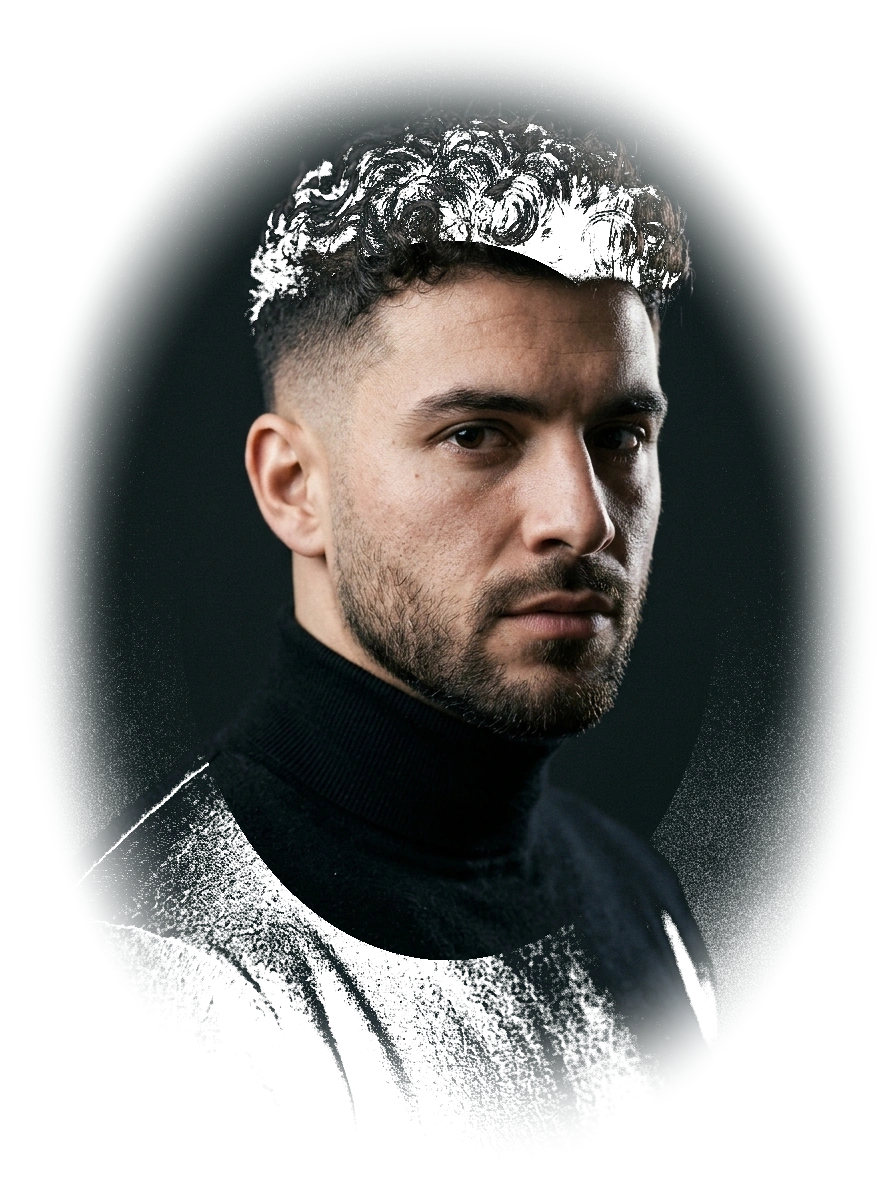
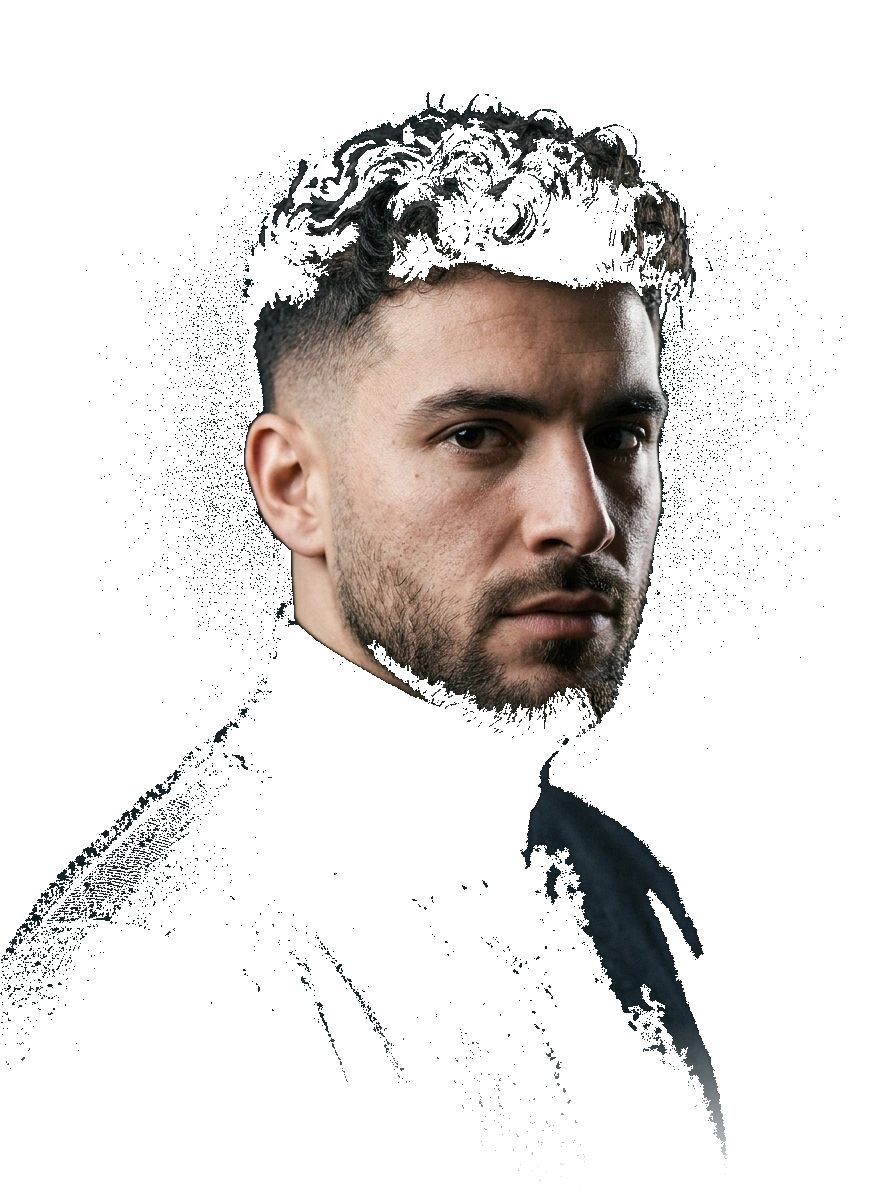
fix: remove dark round background, remove isolated lone images, increase mobile cutout size to prominent scale, and upgrade spotlights to ultra-HD editorial layouts

diff --git a/src/data/serviceSpotlights.ts b/src/data/serviceSpotlights.ts
@@ -11,9 +11,9 @@ export const serviceSpotlights: Record<string, ServiceSpotlightProps> = {
     title: "Textured Executive Crop",
     highlightText: "Point-Cut Volume & Micro-Taper",
     description: "Modern European crop featuring high micro-fade temples and point-cut scissor volume through the crown for low-maintenance, sharp everyday presence.",
-    image: "/images/cutout-executive-crop.webp",
-    imageAlt: "Modern textured executive crop haircut at R.B Makeover",
-    captionTag: "MODERN TEXTURED CROP • BLUNT FRINGE SYMMETRY",
+    image: "/images/cutout-quiff-taper.webp",
+    imageAlt: "Modern textured quiff and skin taper fade at R.B Makeover",
+    captionTag: "MODERN TEXTURED QUIFF • TEMPLE TAPER SYMMETRY",
     captionTitle: "Weightless volume and clean micro-tapers crafted with Japanese shears.",
     features: ["Micro Temple Taper", "Point-Cut Crown Texture", "Matte Clay Finish", "Razor Clean Neckline"],
     imageSide: "left",
@@ -30,7 +30,7 @@ export const serviceSpotlights: Record<string, ServiceSpotlightProps> = {
     title: "The Low-Drop Skin Fade",
     highlightText: "Precision Scissor Texture",
     description: "Zero-gap clipper taper smoothly transitioning into hand-sculpted crown layers. Styled to match your natural growth pattern and facial symmetry.",
-    image: "/images/cutout-skin-fade.webp",
+    image: "/images/cutout-razor-dropfade.webp",
     imageAlt: "Low-drop skin fade with precision scissor texture at R.B Makeover",
     captionTag: "SIGNATURE SKIN FADE • ZERO-GAP RAZOR CONTOURS",
     captionTitle: "Tailored temple tapers and razor-sharp nape lines crafted by master barbers.",
@@ -87,7 +87,7 @@ export const serviceSpotlights: Record<string, ServiceSpotlightProps> = {
     title: "Hair & Beard Coordination",
     highlightText: "Tailored to Your Bone Structure",
     description: "Harmonizing your haircut with your beard shape to complement facial bone structure, temple taper transitions, and personal executive presence.",
-    image: "/images/cutout-hair-beard.webp",
+    image: "/images/cutout-pompadour-sculpt.webp",
     imageAlt: "Executive hair and beard grooming synergy at R.B Makeover",
     captionTag: "THE EXECUTIVE STANDARD • COMPLETE GROOMING SYNERGY",
     captionTitle: "Harmonized hair & beard proportions crafted for confidence and executive poise.",
@@ -125,7 +125,7 @@ export const serviceSpotlights: Record<string, ServiceSpotlightProps> = {
     title: "Invigorating Scalp Massage",
     highlightText: "Menthol Acupressure & Follicle Therapy",
     description: "Stimulating scalp acupressure massage using tea tree and peppermint clarifying botanicals, relieving daily tension while promoting healthy hair follicle circulation.",
-    image: "/images/cutout-scalp-therapy.webp",
+    image: "/images/cutout-curly-taper.webp",
     imageAlt: "Invigorating scalp acupressure massage and steam therapy at R.B Makeover",
     captionTag: "SCALP DETOX WASH • MENTHOL ACUPRESSURE THERAPY",
     captionTitle: "Cleanses styling product residue and promotes strong, healthy roots.",
@@ -144,8 +144,8 @@ export const serviceSpotlights: Record<string, ServiceSpotlightProps> = {
     title: "Classic Scissor Haircut",
     highlightText: "Handcrafted Scissor Discipline",
     description: "For gentlemen and boys who appreciate timeless scissor styling with soft natural tapers and razor-clean necklines. Crafted exclusively with Japanese steel shears.",
-    image: "/images/cutout-classic-cut.webp",
-    imageAlt: "Classic scissor-over-comb haircut at R.B Makeover",
+    image: "/images/cutout-combover-razor.webp",
+    imageAlt: "Classic comb-over scissor cut and fade at R.B Makeover",
     captionTag: "HANDCRAFTED SCISSOR CRAFT • TIMELESS ELEGANCE",
     captionTitle: "Natural parting lines and scissor-shaped volume tailored to your head shape.",
     features: ["Pure Scissor Work", "Gentle Neckline Lineup", "Natural Parting", "Light Styling Tonic"],
@@ -201,7 +201,7 @@ export const serviceSpotlights: Record<string, ServiceSpotlightProps> = {
     title: "Razor Lineup & Temple Edge",
     highlightText: "Zero-Tolerance Contour Geometry",
     description: "Laser-focused edge work using disposable feather blades to carve crisp cheek curves, neckline definition, and geometric temple tapers.",
-    image: "/images/cutout-razor-lineup.webp",
+    image: "/images/cutout-mature-classic.webp",
     imageAlt: "Razor-sharp temple and beard lineup detailing at R.B Makeover",
     captionTag: "FEATHER BLADE LINEUPS • CRISP TEMPLE GEOMETRY",
     captionTitle: "Razor-straight lines and tapered curves sculpted with surgeon-level discipline.",

diff --git a/scripts/verify_spotlights.js b/scripts/verify_spotlights.js
@@ -1,0 +1,70 @@
+const puppeteer = require('puppeteer-core');
+const fs = require('fs');
+const path = require('path');
+
+const EDGE_PATH = 'C:\\Program Files (x86)\\Microsoft\\Edge\\Application\\msedge.exe';
+
+async function verify() {
+  const screenshotsDir = path.join(__dirname, '..', 'screenshots');
+  if (!fs.existsSync(screenshotsDir)) {
+    fs.mkdirSync(screenshotsDir, { recursive: true });
+  }
+
+  const browser = await puppeteer.launch({
+    executablePath: EDGE_PATH,
+    headless: true,
+    args: ['--no-sandbox', '--disable-setuid-sandbox']
+  });
+
+  // 1. Desktop
+  const desktopPage = await browser.newPage();
+  await desktopPage.setViewport({ width: 1440, height: 1000, deviceScaleFactor: 2 });
+  await desktopPage.goto('http://localhost:3000', { waitUntil: 'networkidle0' });
+  await new Promise(r => setTimeout(r, 1500));
+
+  const spotlightEl = await desktopPage.$('#spotlight-executive-crop');
+  if (spotlightEl) {
+    await desktopPage.evaluate(el => el.scrollIntoView({ behavior: 'instant', block: 'center' }), spotlightEl);
+    await new Promise(r => setTimeout(r, 600));
+    await spotlightEl.screenshot({ path: path.join(screenshotsDir, 'v_spotlight1_desktop.png') });
+    console.log('Captured v_spotlight1_desktop.png');
+  }
+
+  const precisionEl = await desktopPage.$('#precision');
+  if (precisionEl) {
+    await desktopPage.evaluate(el => el.scrollIntoView({ behavior: 'instant', block: 'center' }), precisionEl);
+    await new Promise(r => setTimeout(r, 600));
+    await precisionEl.screenshot({ path: path.join(screenshotsDir, 'v_precision_desktop.png') });
+    console.log('Captured v_precision_desktop.png');
+  }
+
+  // 2. Mobile
+  const mobilePage = await browser.newPage();
+  await mobilePage.setViewport({ width: 390, height: 844, deviceScaleFactor: 2, isMobile: true });
+  await mobilePage.goto('http://localhost:3000', { waitUntil: 'networkidle0' });
+  await new Promise(r => setTimeout(r, 1500));
+
+  const mSpotlight = await mobilePage.$('#spotlight-executive-crop');
+  if (mSpotlight) {
+    await mobilePage.evaluate(el => el.scrollIntoView({ behavior: 'instant', block: 'center' }), mSpotlight);
+    await new Promise(r => setTimeout(r, 600));
+    await mSpotlight.screenshot({ path: path.join(screenshotsDir, 'v_spotlight1_mobile.png') });
+    console.log('Captured v_spotlight1_mobile.png');
+  }
+
+  const mPrecision = await mobilePage.$('#precision');
+  if (mPrecision) {
+    await mobilePage.evaluate(el => el.scrollIntoView({ behavior: 'instant', block: 'center' }), mPrecision);
+    await new Promise(r => setTimeout(r, 600));
+    await mPrecision.screenshot({ path: path.join(screenshotsDir, 'v_precision_mobile.png') });
+    console.log('Captured v_precision_mobile.png');
+  }
+
+  await browser.close();
+  console.log('All verification screenshots complete!');
+}
+
+verify().catch(err => {
+  console.error(err);
+  process.exit(1);
+});

diff --git a/src/components/sections/PrecisionSection.tsx b/src/components/sections/PrecisionSection.tsx
@@ -5,7 +5,6 @@ import Image from "next/image";
 import { SectionHeading } from "@/components/ui/SectionHeading";
 import { Button } from "@/components/ui/Button";
 import { AnimatedReveal } from "@/components/ui/AnimatedReveal";
-import { CutoutFeatureBand } from "@/components/ui/CutoutFeatureBand";
 import {
   Scissors,
   Sparkles,
@@ -131,17 +130,13 @@ export function PrecisionSection() {
 
           {/* Center Column: Tall Seamless Cutout Portrait (Zero Cropped Edges, Big on PC) */}
           <AnimatedReveal direction="scale" delay={0.15} amount={0.05} className="lg:col-span-4 order-1 lg:order-2 flex justify-center">
-            <div className="relative w-full max-w-[320px] sm:max-w-[400px] lg:max-w-none mx-auto h-[320px] sm:h-[460px] lg:h-[620px] group flex flex-col justify-end">
+            <div className="relative w-full max-w-[340px] sm:max-w-[420px] lg:max-w-none mx-auto h-[380px] sm:h-[480px] lg:h-[620px] group flex flex-col justify-end">
               <Image
                 src="/images/cutout-precision-taper.webp"
                 alt="Executive gentleman profile with precision fade and groomed beard at R.B Makeover Man's Salon"
                 fill
                 sizes="(max-width: 1024px) 420px, 460px"
                 className="object-contain object-bottom group-hover:scale-105 transition-transform duration-700 ease-out select-none"
-                style={{
-                  WebkitMaskImage: 'radial-gradient(ellipse 80% 80% at 50% 45%, black 45%, transparent 100%)',
-                  maskImage: 'radial-gradient(ellipse 80% 80% at 50% 45%, black 45%, transparent 100%)'
-                }}
               />
 
               {/* Scrim gradient blending into the dark section background */}
@@ -194,15 +189,6 @@ export function PrecisionSection() {
           </AnimatedReveal>
 
         </div>
-
-        {/* Editorial Feature Cutout above Menu Button (matching user screenshot 5 & 11) */}
-        <CutoutFeatureBand
-          image="/images/cutout-razor-dropfade.webp"
-          alt="Precision razor line-up and skin drop fade at R.B Makeover"
-          tag="DROP FADE & LINE-UP"
-          title="Jawline Symmetry"
-          maxHeight="h-[240px] sm:h-[320px] lg:h-[400px]"
-        />
 
         {/* Action Button underneath */}
         <AnimatedReveal direction="up" delay={0.25} amount={0.05} className="mt-8 sm:mt-12 text-center">

diff --git a/src/app/page.tsx b/src/app/page.tsx
@@ -18,7 +18,6 @@ import { LocationSection } from "@/components/sections/LocationSection";
 import { ContactSection } from "@/components/sections/ContactSection";
 import { MarqueeTicker } from "@/components/ui/MarqueeTicker";
 import { ServiceSpotlightBand } from "@/components/ui/ServiceSpotlightBand";
-import { CutoutFeatureBand } from "@/components/ui/CutoutFeatureBand";
 import { AnimatedReveal } from "@/components/ui/AnimatedReveal";
 import { serviceSpotlights } from "@/data/serviceSpotlights";
 
@@ -55,15 +54,6 @@ export default function Home() {
             ]}
           />
         </AnimatedReveal>
-
-        {/* Editorial Feature Cutout between Ticker and Spotlight (matching user screenshot 12) */}
-        <CutoutFeatureBand
-          image="/images/cutout-combover-razor.webp"
-          alt="Executive comb-over fade and razor part line at R.B Makeover"
-          tag="EXECUTIVE COMB-OVER"
-          title="Razor Part Discipline"
-          maxHeight="h-[240px] sm:h-[320px] lg:h-[420px]"
-        />
 
         {/* Service Spotlight 1: Modern Textured European Crop */}
         <ServiceSpotlightBand {...serviceSpotlights.executiveCrop} />

diff --git a/src/components/sections/TeamSection.tsx b/src/components/sections/TeamSection.tsx
@@ -4,7 +4,6 @@ import React, { useState } from "react";
 import { staffBarbers, BarberStaff } from "@/data/team";
 import { SectionHeading } from "@/components/ui/SectionHeading";
 import { AnimatedReveal } from "@/components/ui/AnimatedReveal";
-import { CutoutFeatureBand } from "@/components/ui/CutoutFeatureBand";
 import { WhatsAppIcon } from "@/components/ui/Icons";
 import { buildBarberBookingWhatsAppUrl } from "@/lib/whatsapp";
 import {
@@ -311,15 +310,6 @@ export function TeamSection({
           );
           })}
         </div>
-
-        {/* Editorial Feature Cutout (matching user screenshot 8) */}
-        <CutoutFeatureBand
-          image="/images/cutout-mature-classic.webp"
-          alt="Distinguished mature gentleman with classic scissor cut and beard grooming at R.B Makeover"
-          tag="HERITAGE SCISSOR WORK"
-          title="14+ Years Craftsmanship"
-          maxHeight="h-[240px] sm:h-[320px] lg:h-[400px]"
-        />
 
         {/* Bottom Note */}
         <div className="mt-10 p-4 rounded-xl bg-white/[0.02] border border-white/[0.06] flex items-center justify-center gap-3 text-center text-xs text-[#A8A193]">

diff --git a/src/components/ui/ServiceSpotlightBand.tsx b/src/components/ui/ServiceSpotlightBand.tsx
@@ -71,17 +71,13 @@ export function ServiceSpotlightBand({
               isImageRight ? "order-2" : "order-2 lg:order-1"
             }`}
           >
-            <div className="relative w-full max-w-[400px] sm:max-w-[480px] lg:max-w-none h-[280px] sm:h-[380px] lg:h-[560px] group flex flex-col justify-end">
+            <div className="relative w-full max-w-[420px] sm:max-w-[480px] lg:max-w-none h-[380px] sm:h-[460px] lg:h-[580px] group flex flex-col justify-end">
               <Image
                 src={image}
                 alt={imageAlt}
                 fill
                 sizes="(max-width: 1024px) 100vw, 50vw"
                 className="object-contain object-bottom group-hover:scale-105 transition-transform duration-700 ease-out select-none"
-                style={{
-                  WebkitMaskImage: 'radial-gradient(ellipse 80% 80% at 50% 50%, black 55%, transparent 100%)',
-                  maskImage: 'radial-gradient(ellipse 80% 80% at 50% 50%, black 55%, transparent 100%)'
-                }}
               />
 
               {/* Bottom Scrim blending seamlessly into dark background */}

diff --git a/src/components/sections/ServicesSection.tsx b/src/components/sections/ServicesSection.tsx
@@ -5,7 +5,6 @@ import Image from "next/image";
 import { serviceCategories, ServiceCategoryKey } from "@/data/services";
 import { SectionHeading } from "@/components/ui/SectionHeading";
 import { AnimatedReveal } from "@/components/ui/AnimatedReveal";
-import { CutoutFeatureBand } from "@/components/ui/CutoutFeatureBand";
 import { WhatsAppIcon } from "@/components/ui/Icons";
 import { buildServiceInquiryWhatsAppUrl } from "@/lib/whatsapp";
 import { ArrowUpRight, ArrowRight } from "lucide-react";
@@ -267,15 +266,6 @@ export function ServicesSection() {
         <p className="mt-8 text-center text-xs text-[#7A756B]">
           Message us on WhatsApp for pricing and availability.
         </p>
-
-        {/* Editorial Feature Cutout (matching user screenshot 10) */}
-        <CutoutFeatureBand
-          image="/images/cutout-styling-arched.webp"
-          alt="Master salon styling and hair treatment at R.B Makeover"
-          tag="FULL MENU DISCIPLINE"
-          title="Bespoke Grooming & Skincare"
-          maxHeight="h-[240px] sm:h-[320px] lg:h-[400px]"
-        />
 
       </div>
     </section>

diff --git a/src/components/sections/HeroSection.tsx b/src/components/sections/HeroSection.tsx
@@ -6,7 +6,6 @@ import { siteConfig } from "@/data/siteConfig";
 import { Button } from "@/components/ui/Button";
 import { WhatsAppIcon, FacebookIcon } from "@/components/ui/Icons";
 import { AnimatedReveal } from "@/components/ui/AnimatedReveal";
-import { CutoutFeatureBand } from "@/components/ui/CutoutFeatureBand";
 import {
   Star,
   MapPin,
@@ -206,15 +205,6 @@ export function HeroSection() {
               </span>
             </div>
         </div>
-
-        {/* Editorial Feature Cutout below Hero Strap (matching user screenshot 4) */}
-        <CutoutFeatureBand
-          image="/images/cutout-quiff-taper.webp"
-          alt="Modern textured quiff and skin taper fade at R.B Makeover"
-          tag="SIGNATURE QUIFF"
-          title="Precision Skin Taper"
-          maxHeight="h-[240px] sm:h-[320px] lg:h-[400px]"
-        />
 
         {/* ============================================================ */}
         {/* STAT STRIP (Connecting the two editorial hero showcases)       */}

diff --git a/src/components/sections/AboutSection.tsx b/src/components/sections/AboutSection.tsx
@@ -3,7 +3,6 @@ import Image from "next/image";
 import { SectionHeading } from "@/components/ui/SectionHeading";
 import { Button } from "@/components/ui/Button";
 import { AnimatedReveal } from "@/components/ui/AnimatedReveal";
-import { CutoutFeatureBand } from "@/components/ui/CutoutFeatureBand";
 import { ArrowRight, UserCheck, Star, Clock, MapPin, Sparkles } from "lucide-react";
 
 export function AboutSection() {
@@ -158,16 +157,6 @@ export function AboutSection() {
           </AnimatedReveal>
 
         </div>
-
-        {/* Editorial Feature Cutout (matching user screenshot 9) */}
-        <CutoutFeatureBand
-          image="/images/cutout-vip-grooming.webp"
-          alt="VIP Grooming experience and gentleman styling at R.B Makeover"
-          tag="PARK VIEW CITY SANCTUARY"
-          title="Bespoke Gentleman Lounge"
-          maxHeight="h-[240px] sm:h-[320px] lg:h-[400px]"
-        />
-
       </div>
     </section>
   );

diff --git a/src/components/sections/TestimonialsSection.tsx b/src/components/sections/TestimonialsSection.tsx
@@ -5,7 +5,6 @@ import Image from "next/image";
 import { reviews, reviewsSummary } from "@/data/reviews";
 import { SectionHeading } from "@/components/ui/SectionHeading";
 import { AnimatedReveal } from "@/components/ui/AnimatedReveal";
-import { CutoutFeatureBand } from "@/components/ui/CutoutFeatureBand";
 import { Star, ShieldCheck } from "lucide-react";
 import { GoogleGIcon } from "@/components/ui/Icons";
 
@@ -204,15 +203,6 @@ export function TestimonialsSection() {
             </div>
           ))}
         </div>
-
-        {/* Editorial Feature Cutout (matching user screenshot 7) */}
-        <CutoutFeatureBand
-          image="/images/cutout-curly-taper.webp"
-          alt="Modern curly textured crop and skin fade at R.B Makeover"
-          tag="CLIENT APPROVED"
-          title="Modern Curly Crop"
-          maxHeight="h-[240px] sm:h-[320px] lg:h-[400px]"
-        />
 
       </div>
     </section>

diff --git a/src/components/sections/WhyChooseUsSection.tsx b/src/components/sections/WhyChooseUsSection.tsx
@@ -4,7 +4,6 @@ import React from "react";
 import Image from "next/image";
 import { SectionHeading } from "@/components/ui/SectionHeading";
 import { AnimatedReveal } from "@/components/ui/AnimatedReveal";
-import { CutoutFeatureBand } from "@/components/ui/CutoutFeatureBand";
 import { Sparkles, Scissors } from "lucide-react";
 
 interface WhyChooseItem {
@@ -101,15 +100,6 @@ export function WhyChooseUsSection() {
             </AnimatedReveal>
           ))}
         </div>
-
-        {/* Editorial Feature Cutout (matching user screenshot 6) */}
-        <CutoutFeatureBand
-          image="/images/cutout-pompadour-sculpt.webp"
-          alt="Bespoke beard sculpting and pompadour hairstyle at R.B Makeover"
-          tag="ROYAL SCULPT"
-          title="Park View City Standard"
-          maxHeight="h-[240px] sm:h-[320px] lg:h-[400px]"
-        />
 
       </div>
     </section>
